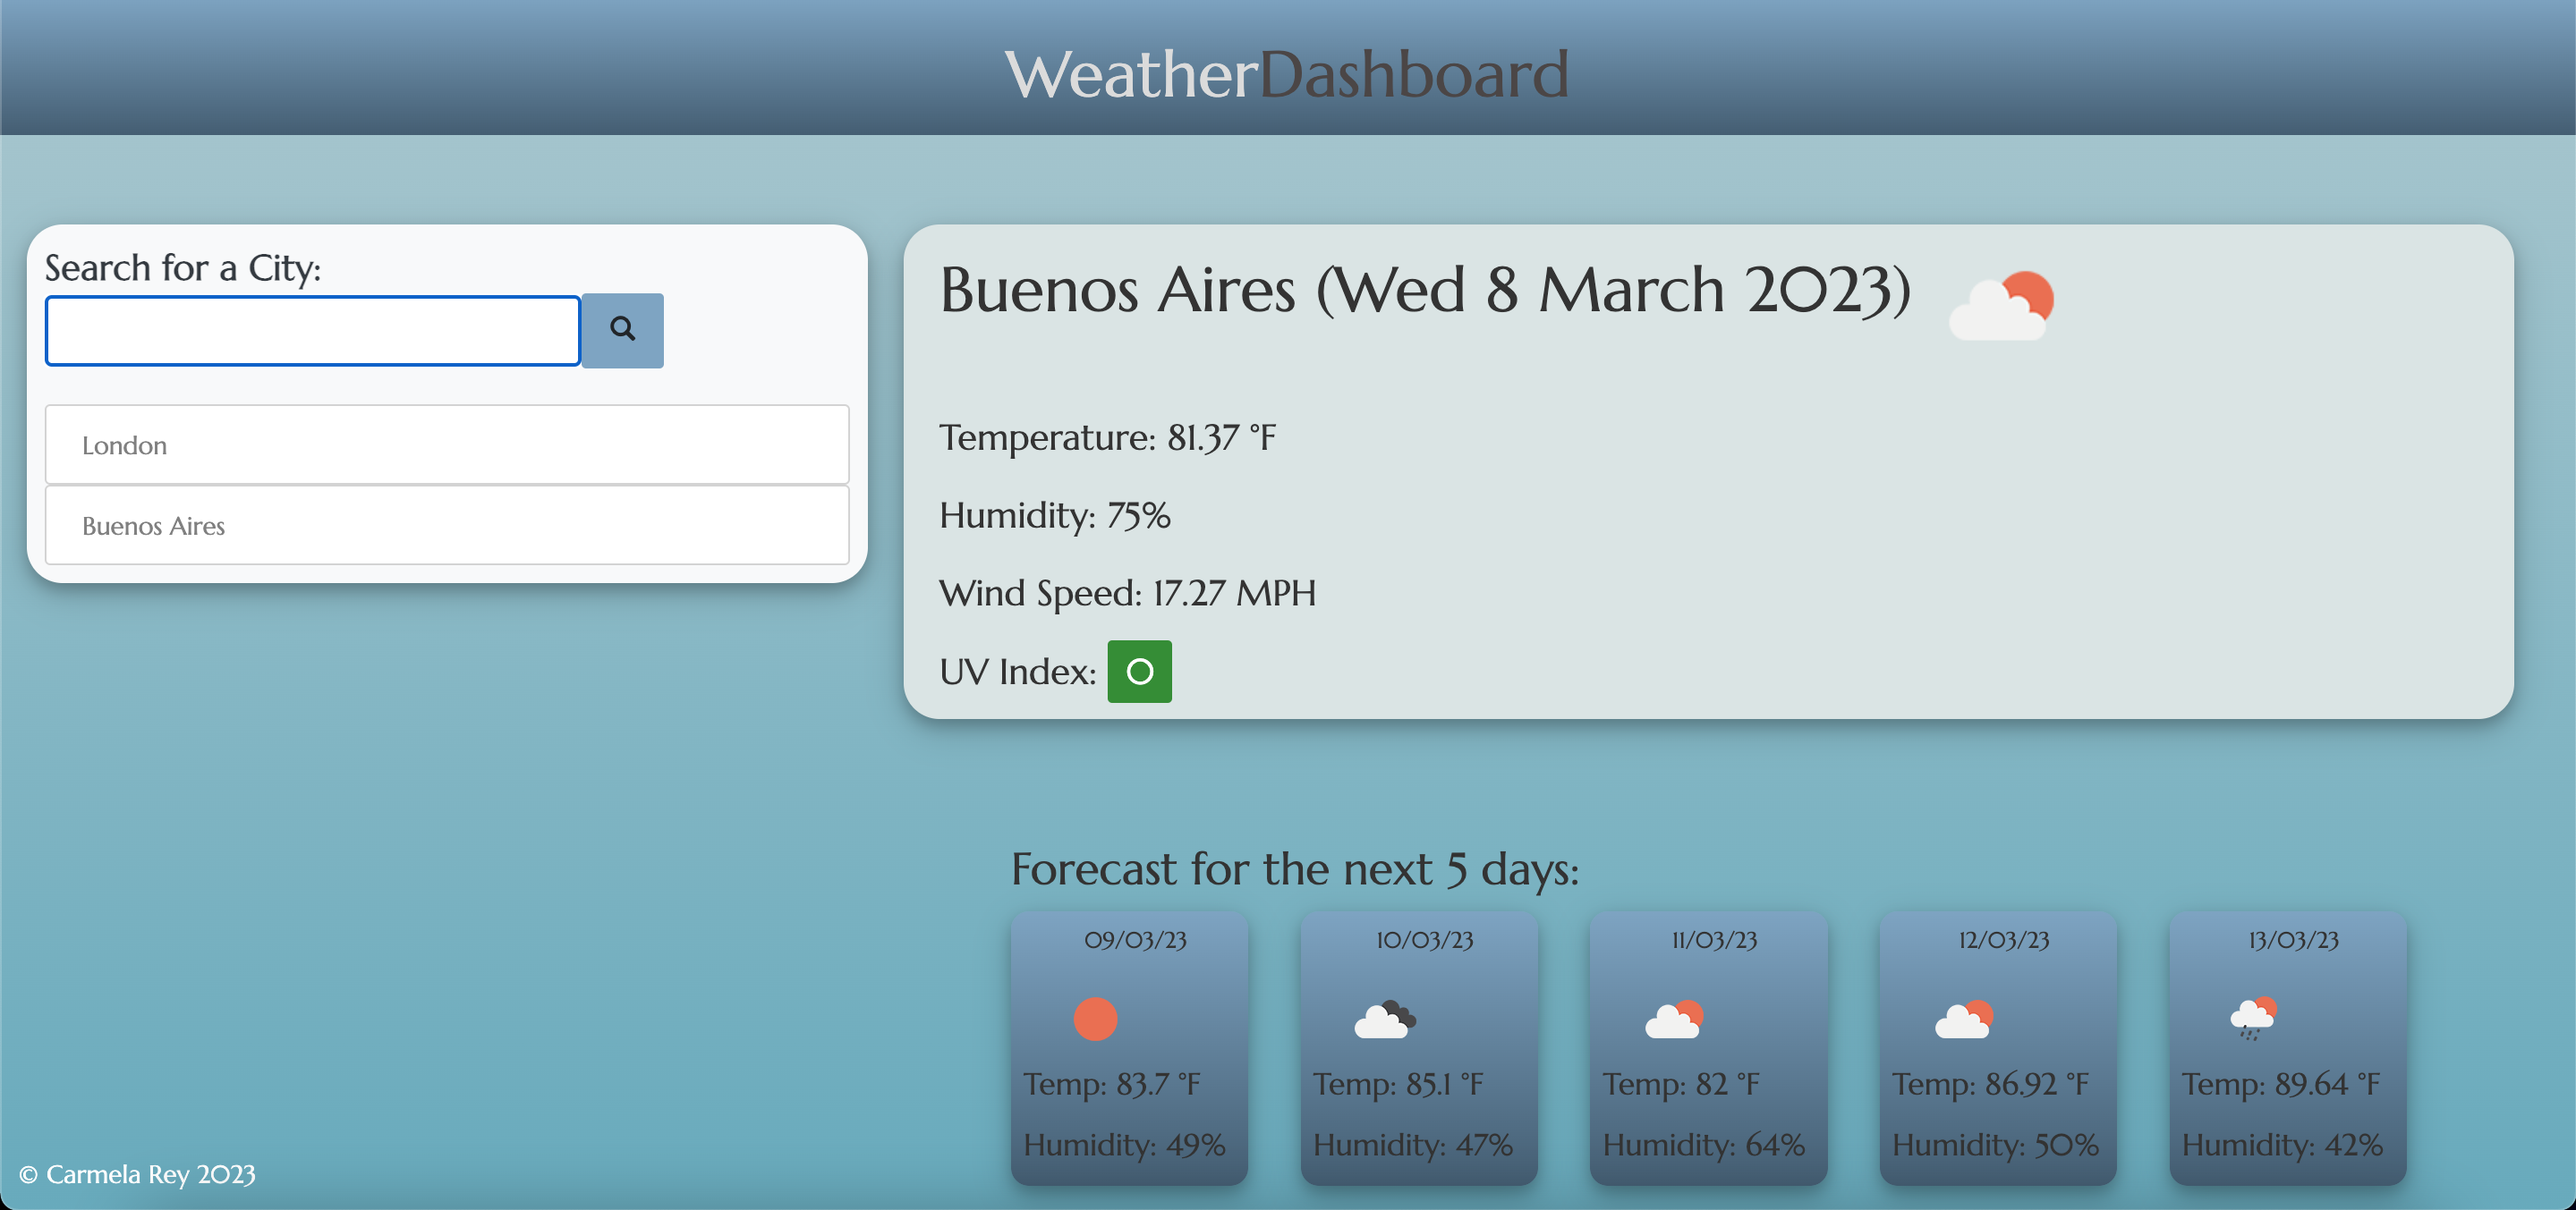
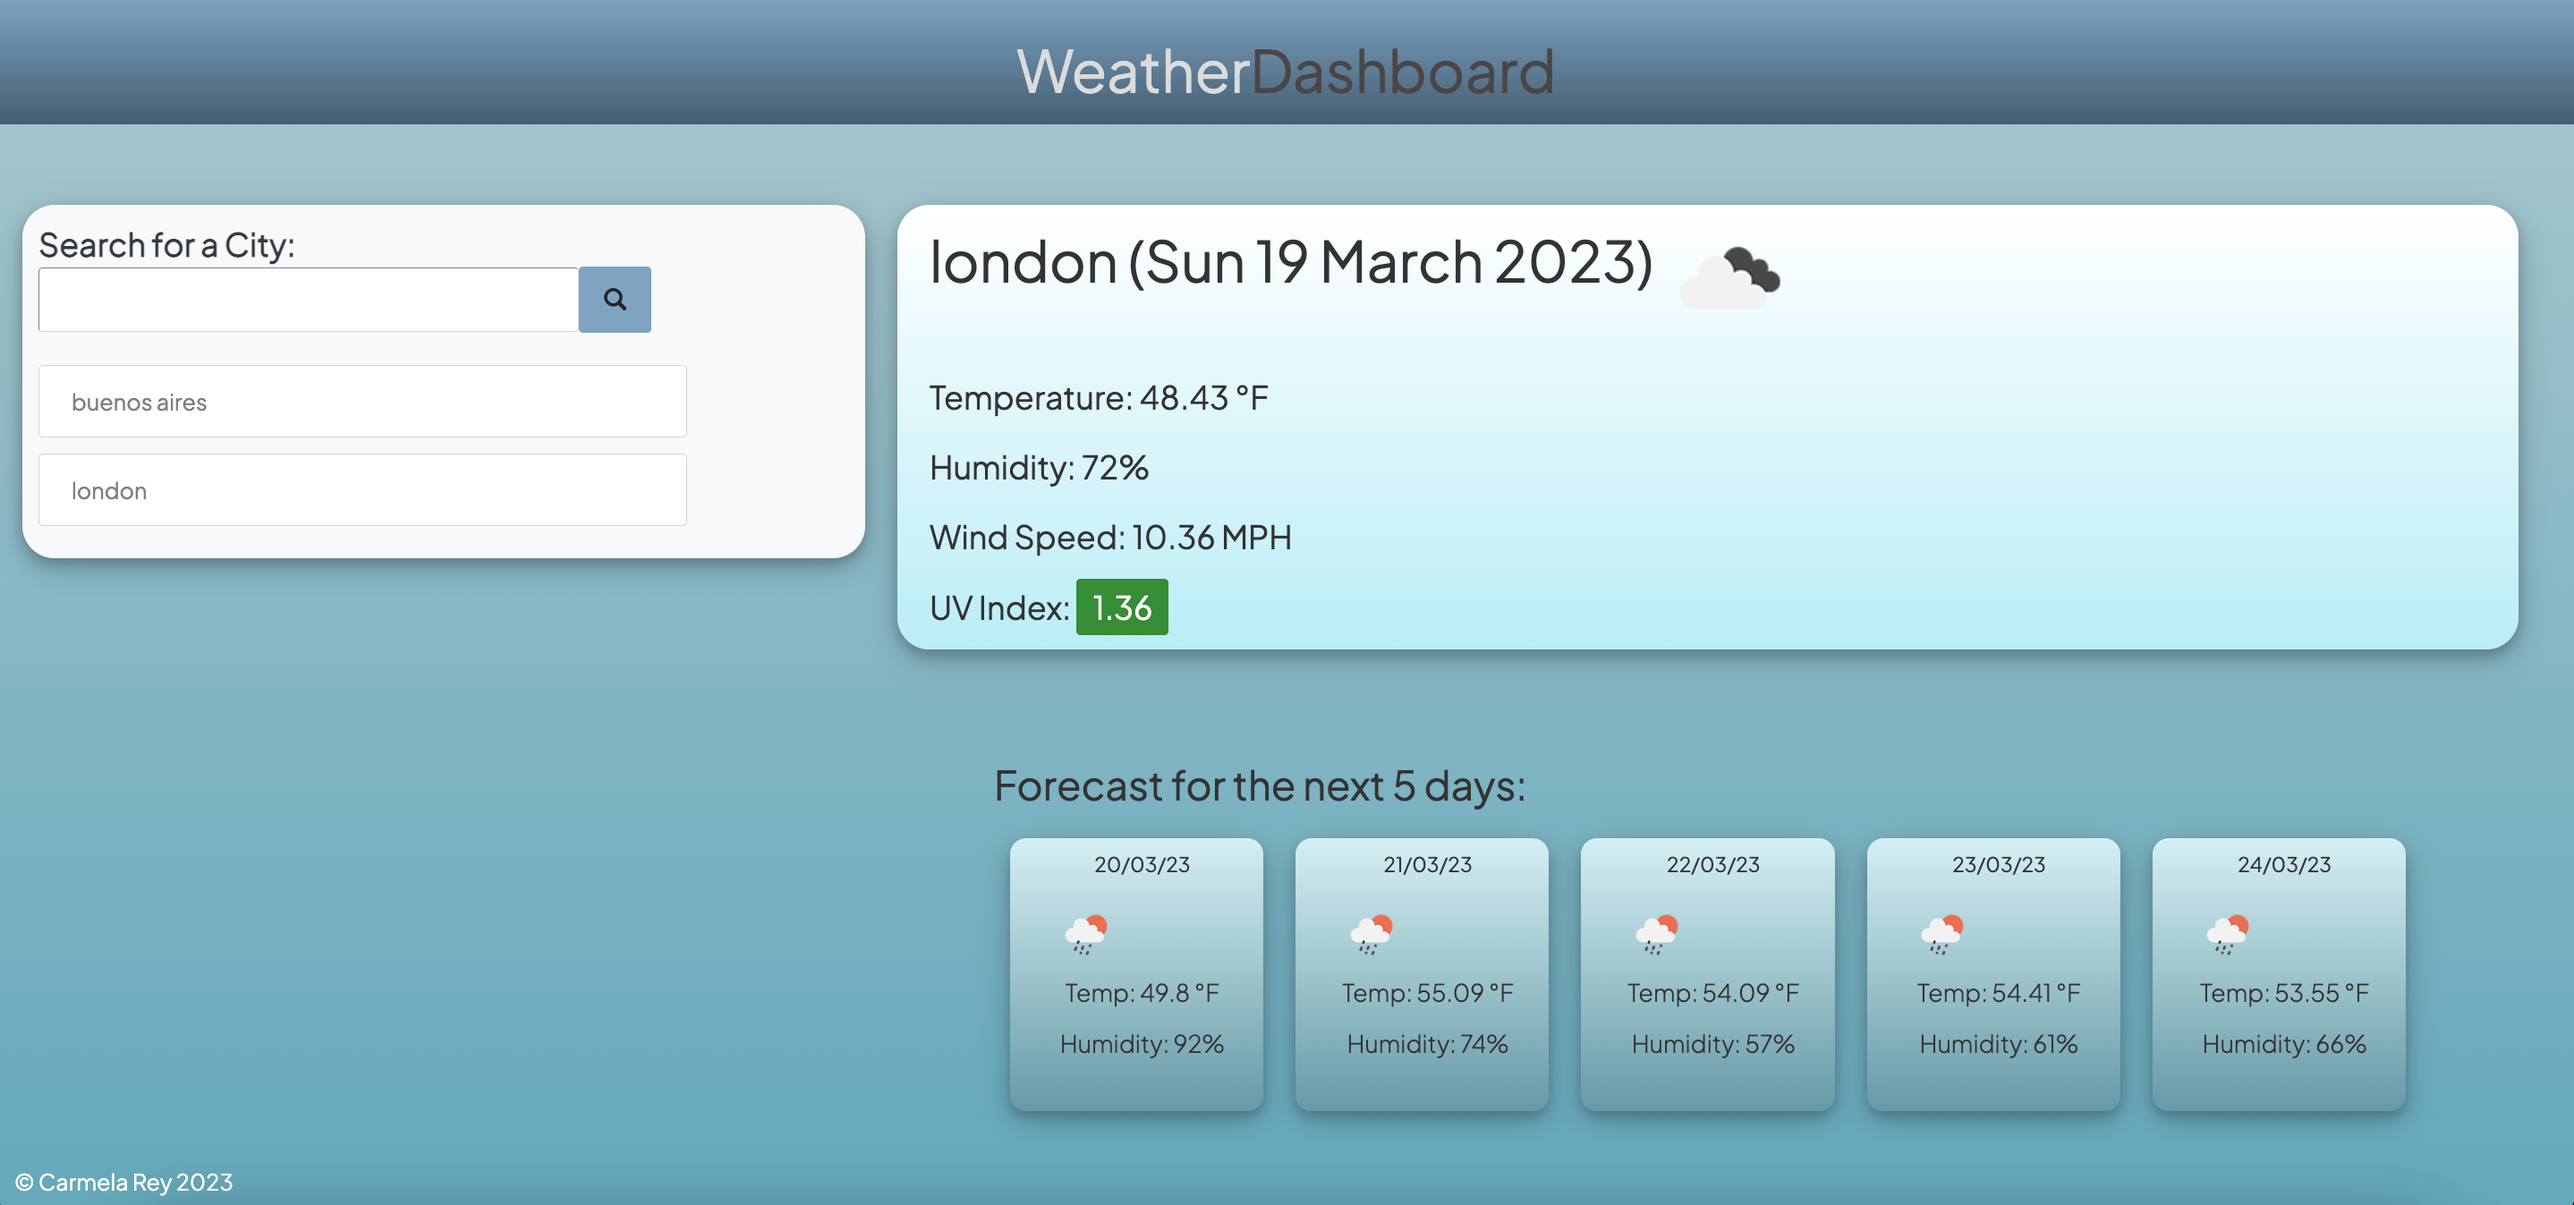
changed background color cards

diff --git a/assets/style.css b/assets/style.css
@@ -57,6 +57,10 @@ body{
     padding: 0 15px;
 }
 
+.search-input:hover{
+cursor: pointer;
+}
+
 .search-button {
     padding: 10px 15px;
 }
@@ -65,7 +69,8 @@ body{
     padding: 10px;
 }
 .past-search-container {
-    width: 100%;
+    width: 80%;
+    
 }
 .past-search {
     background-color: white;
@@ -73,7 +78,7 @@ body{
     border-color: lightgrey;
     border-style: solid;
     border-radius: 3px;
-    margin: 0;
+    
     text-align: left;
     height: 45px;
     line-height: 45px;
@@ -81,11 +86,15 @@ body{
     color: grey;
     flex-direction: column;
 }
+.past-search:hover{
+    cursor: pointer;
+    color: rgb(67, 93, 115);
+}
 
 .current-weather-container {
     margin-top: 50px;
     border-radius: 20px;
-    background-color: rgb(217, 228, 228);
+    background-image: linear-gradient(rgb(255 255 255), rgb(184 237 247));
     box-shadow: 0 4px 8px 0 rgba(0, 0, 0, 0.2), 0 6px 20px 0 rgba(0, 0, 0, 0.19);
     margin-left: 20px;
     margin-right: 20px;
@@ -138,6 +147,9 @@ body{
 
 .future-forecast-container {
     margin: 50px 80px;
+    display: flex;
+    flex-wrap: wrap;
+    flex-direction: column;
 }
 
 .future-forecast-title {
@@ -145,10 +157,10 @@ body{
 }
 
 .future-card-style {
-    
-    width: 17%;
+    margin: 10px;
+    width: 30%;
     padding: 7px 0 0 7px;
-    background-image: linear-gradient(rgb(124, 163, 195), rgb(67, 93, 115));
+    background-image: linear-gradient(rgb(212 239 243), rgb(100 153 167));
     border-radius: 10px;
     box-shadow: 0 4px 8px 0 rgba(0, 0, 0, 0.2), 0 6px 20px 0 rgba(0, 0, 0, 0.19);
 }
@@ -166,8 +178,10 @@ body{
 }
 
 .future-temp, .future-humidity {
-    font-size: 17px;
+    font-size: 15px;
     font-weight: 200;
+    align-items: center;
+    text-align: center;
 }
 
 

diff --git a/index.html b/index.html
@@ -86,7 +86,7 @@
 
 
                     <!-- Forecast for 5 days-->
-                    <div class="row future-forecast-container d-block">
+                    <div class="row future-forecast-container d-flex">
                         <!-- Forecast for 5 days title-->
                         <h2 class="future-forecast-title" id="future-forecast-title"></h2>
                         <!-- Forecast cards container-->
